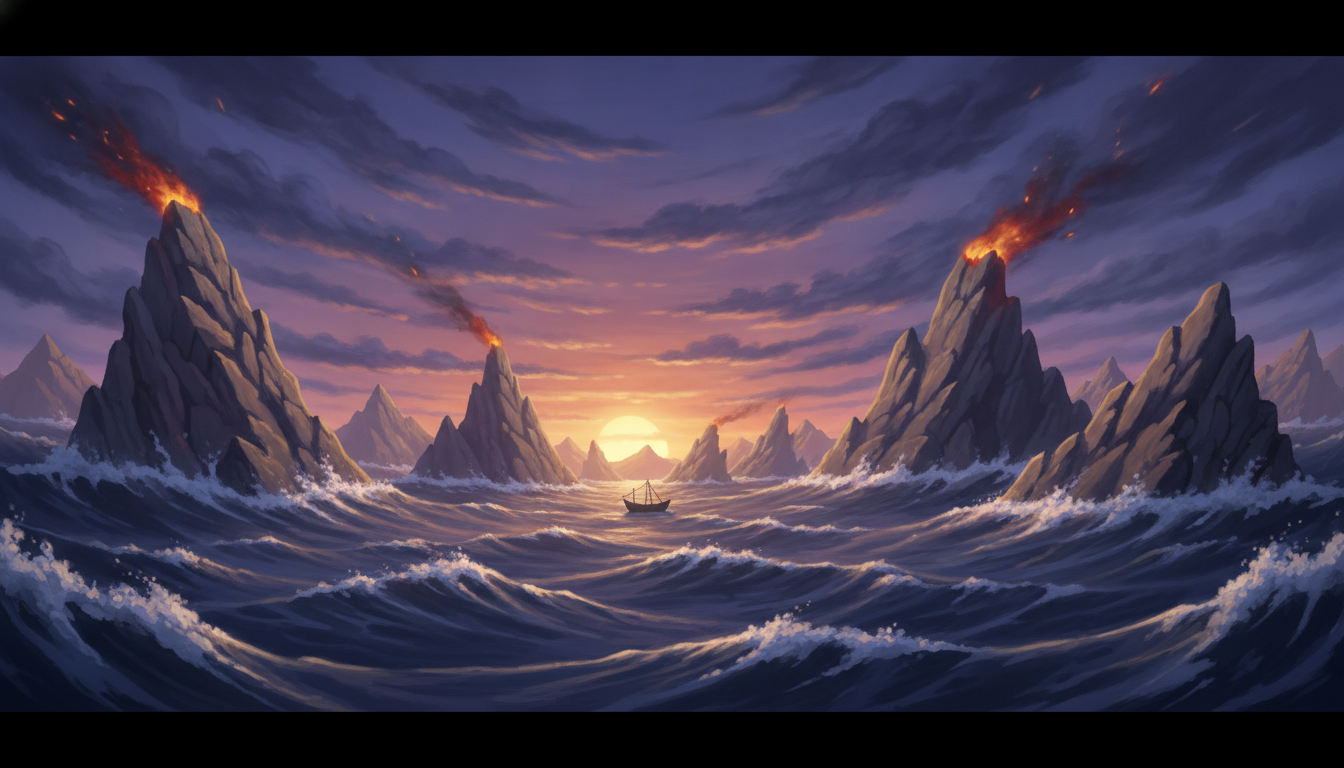
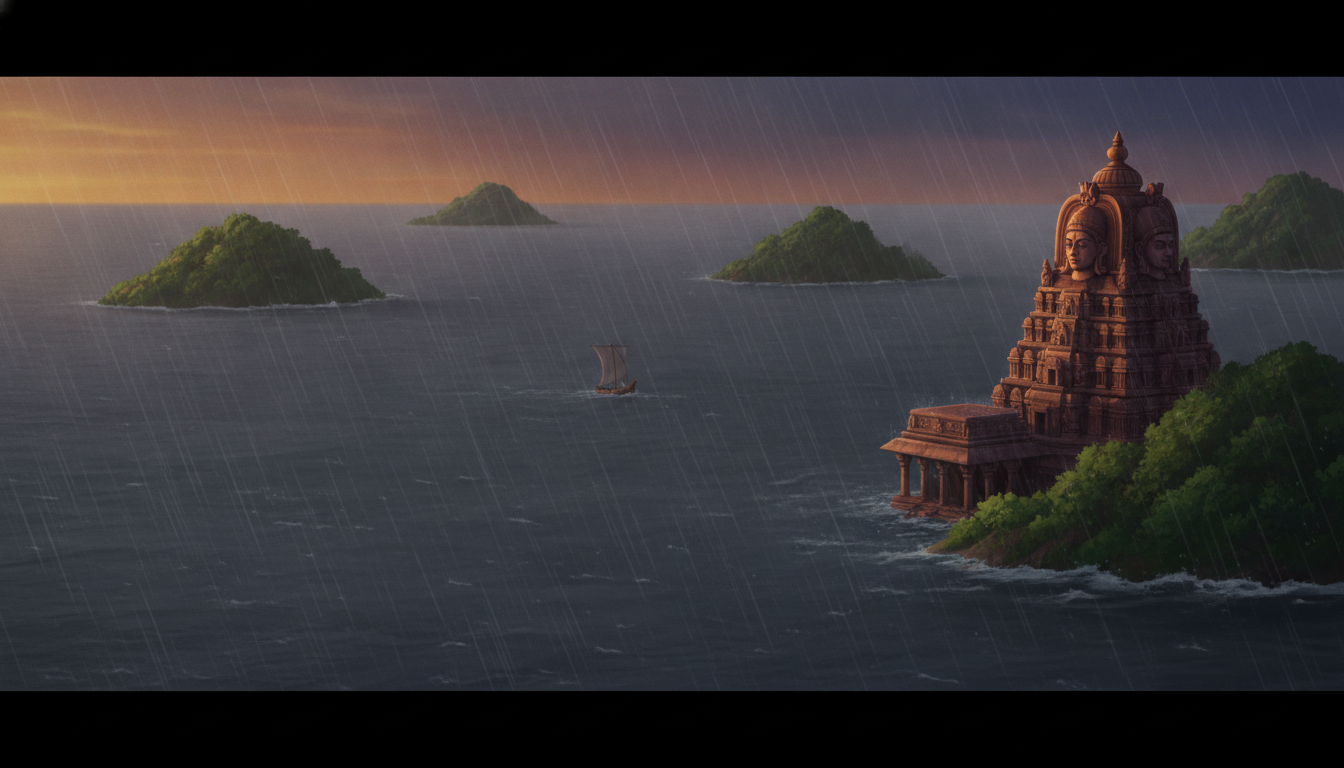
Redraw six Manu pictures with drawing mistakes
Volcanoes in the flood, many fish in the pot, writing in the air, dragon-headed
boat, hooded fish, and a beardless Manu.

Claude-Session: https://claude.ai/code/session_01YRsRDuewzUsAzkoCiXPerC

diff --git a/series/surya-vamsha/ep01-image-prompts.md b/series/surya-vamsha/ep01-image-prompts.md
@@ -10,26 +10,26 @@ picture to that phrase in the finished audio, so pictures never drift from the v
 | # | scene | prompt [SCENE] | starts at (narration words) |
 | --- | --- | --- | --- |
 | 1 | hook | a lone wooden boat on a dark endless flood under lightning, a giant golden fish with a single horn on its head towing it with a rope | बची थी… एक नाव |
-| 2 | hook | the whole earth drowned, only mountain peaks breaking the stormy water, tiny boat in the distance | एक समय था |
+| 2 | hook | the whole earth drowned under an endless dark grey flood ocean in heavy rain, only the tips of a few green forested hill tops and a temple spire breaking the water, no volcanoes, no fire, no lava, a tiny wooden boat far in the distance, sombre and vast | एक समय था |
 | 3 | title | the sun rising over a calm ocean, a royal lineage tree of golden light rising from the sun | यह कथा है सूर्यवंश की |
 | 4 | Vedas stolen | four-faced Brahma asleep on a lotus, four glowing scriptures slipping from his mouths | यह कथा एक चोरी से |
 | 5 | Vedas stolen | a horse-headed demon Hayagriva stealing four glowing scriptures into dark waters | और पास ही खड़ा था |
 | 6 | the fish | King Satyavrata, bearded ascetic king in white, standing waist-deep in a river at dawn, cupped hands holding water | द्रविड़ देश में |
 | 7 | the fish | close-up of cupped hands with a tiny shining golden fish in the water | और उस अंजलि में |
 | 8 | the fish | the king placing the tiny fish into his brass water pot (kamandalu) | सत्यव्रत रुके |
-| 9 | the fish | the fish now filling a large clay pot, glowing, the king astonished | पर एक रात में ही |
+| 9 | the fish | inside a palace courtyard a single large golden fish, now too big for it, curled tightly inside a big clay water pot, its head and tail spilling over the rim, water splashing, King Satyavrata, a tall bearded king with greying hair in white robes, stepping back astonished, only one fish | पर एक रात में ही |
 | 10 | the fish | the king carrying a huge glowing fish to a lake, villagers watching | सरोवर में छोड़ा |
 | 11 | the fish | the king on the ocean shore releasing a vast golden fish into the sea | राजा उसे समुद्र तक |
 | 12 | revelation | the golden fish rising from the ocean surrounded by divine light, a blue four-armed divine form faintly visible in the glow, the king kneeling | तब भगवान ने अपना परिचय |
-| 13 | warning | the divine fish speaking, storm clouds gathering on the horizon, "seven days" mood | आज से सातवें दिन |
+| 13 | warning | the giant golden fish raised calmly from the sea speaking to the kneeling bearded king Satyavrata with greying hair on the shore, storm clouds gathering on the far horizon, lightning in the distance, solemn warning mood, no writing, no letters, no symbols in the air | आज से सातवें दिन |
 | 14 | the ark | a great wooden boat on the shore being loaded with seeds, herbs and seven sages | तब एक नाव तुम्हारे पास |
 | 15 | flood | the sea surging over the land, torrential rain, villages vanishing | सातवें दिन… समुद्र उठा |
-| 16 | flood | the boat tossed on huge waves, the king and seven sages holding on | नाव आई। सत्यव्रत |
-| 17 | flood | the giant golden one-horned fish appearing in the storm, the great serpent Vasuki used as a rope tying the boat to its horn | एक सुनहरी, एक सींग वाली |
+| 16 | flood | a simple ancient Indian wooden boat with a plain curved wooden prow and a palm-leaf canopy, no dragon heads, no carved animal heads, tossed on huge storm waves, the bearded king Satyavrata with greying hair and seven white-bearded sages in saffron holding on, rain and lightning | नाव आई। सत्यव्रत |
+| 17 | flood | the giant golden fish with a single short pointed golden spike on its brow rising through storm waves, a long green serpent tied to that spike stretching back as a rope to a small wooden boat with the king and sages, no hood, no cobra, only one fish head, lightning, majestic | एक सुनहरी, एक सींग वाली |
 | 18 | teaching | calm inside the storm: the king listening, hands joined, the fish glowing like a lamp | नाव बाँध दी गई |
 | 19 | Hayagriva | the divine fish defeating the horse-headed demon underwater and returning the four scriptures to Brahma | भगवान ने हयग्रीव को खोज |
 | 20 | Manu | the flood receding at sunrise; the king now Vaivasvata Manu, crowned, the sun behind him | प्रलय बीता |
-| 21 | Manu | Manu and his queen Shraddha at a sacrificial fire with the sage Vasishtha | कुलगुरु वसिष्ठ ने यज्ञ |
+| 21 | Manu | Manu, a tall older king with a long greying beard and greying hair in royal saffron robes, and his queen Shraddha in a red saree, standing at a blazing sacrificial fire altar, the elderly sage Vasishtha with long white hair and beard tied in a top-knot seated chanting beside the fire | कुलगुरु वसिष्ठ ने यज्ञ |
 | 22 | Ila | a baby girl born from the sacred fire, the queen joyful, Manu troubled | और यज्ञ से जन्मी |
 | 23 | Sudyumna | Ila transformed into a young prince Sudyumna on horseback | इला बन गई पुरुष |
 | 24 | cursed forest | the prince riding into an enchanted forest at the foot of golden Mount Meru | एक दिन सुद्युम्न शिकार |
